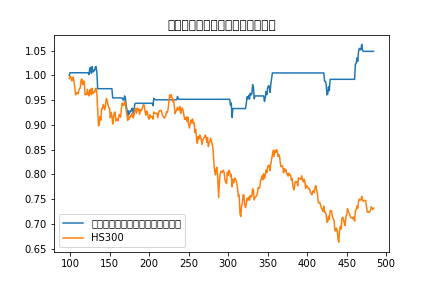
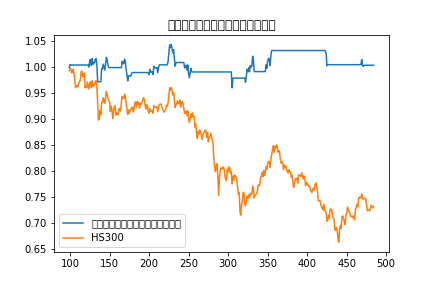
modify 11.14.21.53

diff --git a/notes2.py b/notes2.py
@@ -21,10 +21,8 @@ token = "13bb0841c8a377221b39d9142f42bae2e2e9a897b9f692c75dd90d65"
 ts.set_token(token)
 pro = ts.pro_api()
 
-start = '20210104'
-end = '20221231'
-# remember to also change the file path when saving at the end of this program
-start = '20230103'
+
+start = '20230102'
 end = '20231231'
 #获取日期信息
 tradedate = pro.query('daily', ts_code='600519.SH' , start_date=start, end_date=end)
@@ -44,11 +42,9 @@ tradedate['自由流通市值加权连板比率剪刀差'] = '' #9
 tradedate['自由流通市值加权地天与天地板比率剪刀差'] = '' #10
 size = tradedate.index[-1]+1
 
-df = pro.index_weight(index_code='399300.SZ', start_date=start, end_date=start)
-# df = df.set_index('con_code')
-df['pct_chg'] = 0
-df['prev'] = 0
-print(df)
+df = df =pro.index_weight(index_code='399300.SZ', start_date=start, end_date=start)
+df_copy = df.copy()
+
 
 for i in range(size): # loop through all date 
     #都去除百分号
@@ -68,71 +64,81 @@ for i in range(size): # loop through all date
     date = tradedate.iloc[i,0] #日期
     print('date is: ' + date)
     # 获取index weighth
-    df_temp =pro.index_weight(index_code='399300.SZ', start_date=date, end_date=date)
+    df =pro.index_weight(index_code='399300.SZ', start_date=date, end_date=date)
         #     index_code   con_code trade_date  weight
         # 0    399300.SZ  600519.SH   20230901  6.2310
         # 1    399300.SZ  300750.SZ   20230901  3.3419
         # 2    399300.SZ  601318.SH   20230901  2.9086
         # ..         ...        ...        ...     ...
         # 299  399300.SZ  001289.SZ   20230901  0.0162
-    
-    if df_temp.empty: #use the original df, update prev
-        print("empty")
-    else: # not empty, update df
-        print('not empty')
-        df = df_temp.merge(df.loc[:,['con_code','prev','pct_chg']], how='left', left_on = 'con_code', right_on='con_code')
-        # df = df.set_index('con_code')
-        
-    df.fillna(0, inplace=True) # if some stock remove/added set their pct_chg and prev as 0
-    df.loc[:,'prev'] = df.loc[:,'pct_chg']  #update prev  
-    codelist = df.loc[:,'con_code']
+    df['prev'] = 0
+    df['pct_chg'] = 0
+    if df.empty:
+        df = df_copy
+    else:
+        df_copy = df.copy()
+    codelist = df.iloc[:,1]
     allcode = ''
     
     for x in range(300):
         allcode = codelist[x] + ',' + allcode
     #ends this for loop
+    
         
     # 提取这些stock的pct_change, swing, limit(涨跌停类型)
-    # df1 = pro.bak_daily(ts_code=allcode, trade_date=date, fields='ts_code,pct_change,swing') # 涨幅，振幅
-    # df2 = pro.limit_list_d(ts_code=allcode, trade_date=date, fields='ts_code,limit')  #涨停/跌停
-    df1 = pro.daily(ts_code=allcode, start_date=date, end_date=date) # 涨幅
-    df1 = df1.loc[:,['ts_code','pct_chg']]
+    df1 = pro.bak_daily(ts_code=allcode, trade_date=date, fields='ts_code,pct_change,swing') # 涨幅，振幅
+    df2 = pro.limit_list_d(ts_code=allcode, trade_date=date, fields='ts_code,limit')  #涨停/跌停
+    
+    # df1 = pro.daily(ts_code=allcode, start_date=date, end_date=date) # 涨幅
+    # df1 = df1.loc[:,['ts_code','pct_chg']]
     
     df1 = pd.DataFrame(codelist).merge(df1, how='left', left_on='con_code', right_on='ts_code') 
+    df1 = df1.merge(df2, how='left', left_on='con_code', right_on='ts_code') 
     
-    # df1 = df1.merge(df2, how='left', left_on='con_code', right_on='ts_code')
+    
     df1.fillna(0,inplace=True)
     df1= df1.set_index('con_code')
-    df1 = df1.loc[:,['pct_chg']] # 'limit'
-    df1['swing'] = 0
+    df1 = df1.loc[:,['pct_change','swing','limit']] # only keep the needed columns
+    # df1['swing'] = 0
 
     for j in range(300): #loop through all stocks
         code = codelist[j]
         # 获取和他们对应涨跌幅
-        prev_pct = df.loc[j,'prev']
+        prev_pct = df.loc[j,'pct_chg'] #更新pct_cg
+        df.loc[j,'prev'] = prev_pct
         
         pct = df1.loc[code, 'pct_chg']
         swing = df1.loc[code, 'swing']
+        limit = df1.loc[code, 'limit']
         
         df.loc[j,'pct_chg'] = pct
-        
-        if (j == 1):
-            print(code, ':', prev_pct, pct)
-        if pct > 9.5:
+
+        if pct >= 9.5:
             zt += 1/300
             zt_w += df.iloc[j,3]/100
             if prev_pct > 9.5: #连板涨停
                     zt_c += 1/300
                     zt_cw += df.iloc[j,3]/100
-        elif pct < -9.5:
+        elif pct <= -9.5:
             dt += 1/300
             dt_w += df.iloc[j,3]/100
             if prev_pct < -9.5: # 连续跌停
                 dt_c += 1/300
                 dt_cw += df.iloc[j,3]/100
+        
+        # 天地板与地天板
+        if swing >= 19: #振幅超过19%
+            if limit == 'U': # 涨停,地天板
+                dtb += 1/300
+                dtb_w += df.iloc[j,3]/100
+            elif limit == 'D': #跌停，天地板
+                tdb += 1/300
+                tdb_w += df.iloc[j,3]/100
+                
+            
                 
     # ends inner for loop
-    # print(df)
+    print(df)
     tradedate.iloc[i,1] = zt
     tradedate.iloc[i,2] = dt
     tradedate.iloc[i,3] = dtb
@@ -144,8 +150,6 @@ for i in range(size): # loop through all date
     tradedate.iloc[i,9] = zt_cw - dt_cw
     tradedate.iloc[i,10] = dtb_w - tdb_w
     
-    
-    print(df)
 #ends outer for loop
 
 #add return of the 399300.SZ
@@ -153,8 +157,8 @@ returns = pro.index_daily(ts_code='399300.SZ', start_date=start, end_date=end)
 returns = returns.loc[:,['trade_date','pct_chg']]
 tradedate = tradedate.merge(returns, how='left', left_on='trade_date', right_on='trade_date')
 print(tradedate);
-# tradedate.to_csv('tradedate21-22.csv') # 2021-2022
-tradedate.to_csv('tradedate23.csv') # 2023
+tradedate.to_csv('tradedate23.csv')
+            
             
 # V1
 #     提取涨跌幅 得出涨停比率与跌停比率 9.5%为分界

diff --git a/test.py b/test.py
@@ -18,6 +18,16 @@ token = "13bb0841c8a377221b39d9142f42bae2e2e9a897b9f692c75dd90d65"
 ts.set_token(token)
 pro = ts.pro_api()
 
+date = '20210104'
+df =pro.index_weight(index_code='399300.SZ', start_date=date, end_date=date)
+df = df.set_index('con_code')
+print(df)
+df['pct_chg'] = 0
+df_temp = pro.index_weight(index_code='399300.SZ', start_date='20230201', end_date='20230201')
+# print(df_temp)
+df = df_temp.merge(df.loc[:,['pct_chg']], how='left', right_on=df.index, left_on='con_code')
+df.fillna(0, inplace=True)
+print(df)
 
 # tradedate = pro.query('daily', ts_code='600519.SH' , start_date='20161029', end_date='20161130')
 # tradedate = tradedate.iloc[:,1:3]
@@ -53,15 +63,15 @@ pro = ts.pro_api()
 # print(tradedate)
 # print(tradedate.iloc[0,0])
 
-start = '20210101'
-end = '20221231'
-# code = '600519.SH'
-# returns = pro.daily(ts_code='399300.SZ', start_date=start, end_date=end)
-returns = pro.index_daily(ts_code='399300.SZ', start_date=start, end_date=end)
-returns = returns.loc[:,['trade_date','pct_chg']]
-for i in range(100):
-    j = i + 300
-    print(returns.loc[j,'pct_chg'])
+# start = '20210101'
+# end = '20221231'
+# # code = '600519.SH'
+# # returns = pro.daily(ts_code='399300.SZ', start_date=start, end_date=end)
+# returns = pro.index_daily(ts_code='399300.SZ', start_date=start, end_date=end)
+# returns = returns.loc[:,['trade_date','pct_chg']]
+# for i in range(100):
+#     j = i + 300
+#     print(returns.loc[j,'pct_chg'])
 # print(returns)
 # df =pro.index_weight(index_code='399300.SZ', start_date=start, end_date=start)
 #         #     index_code   con_code trade_date  weight
